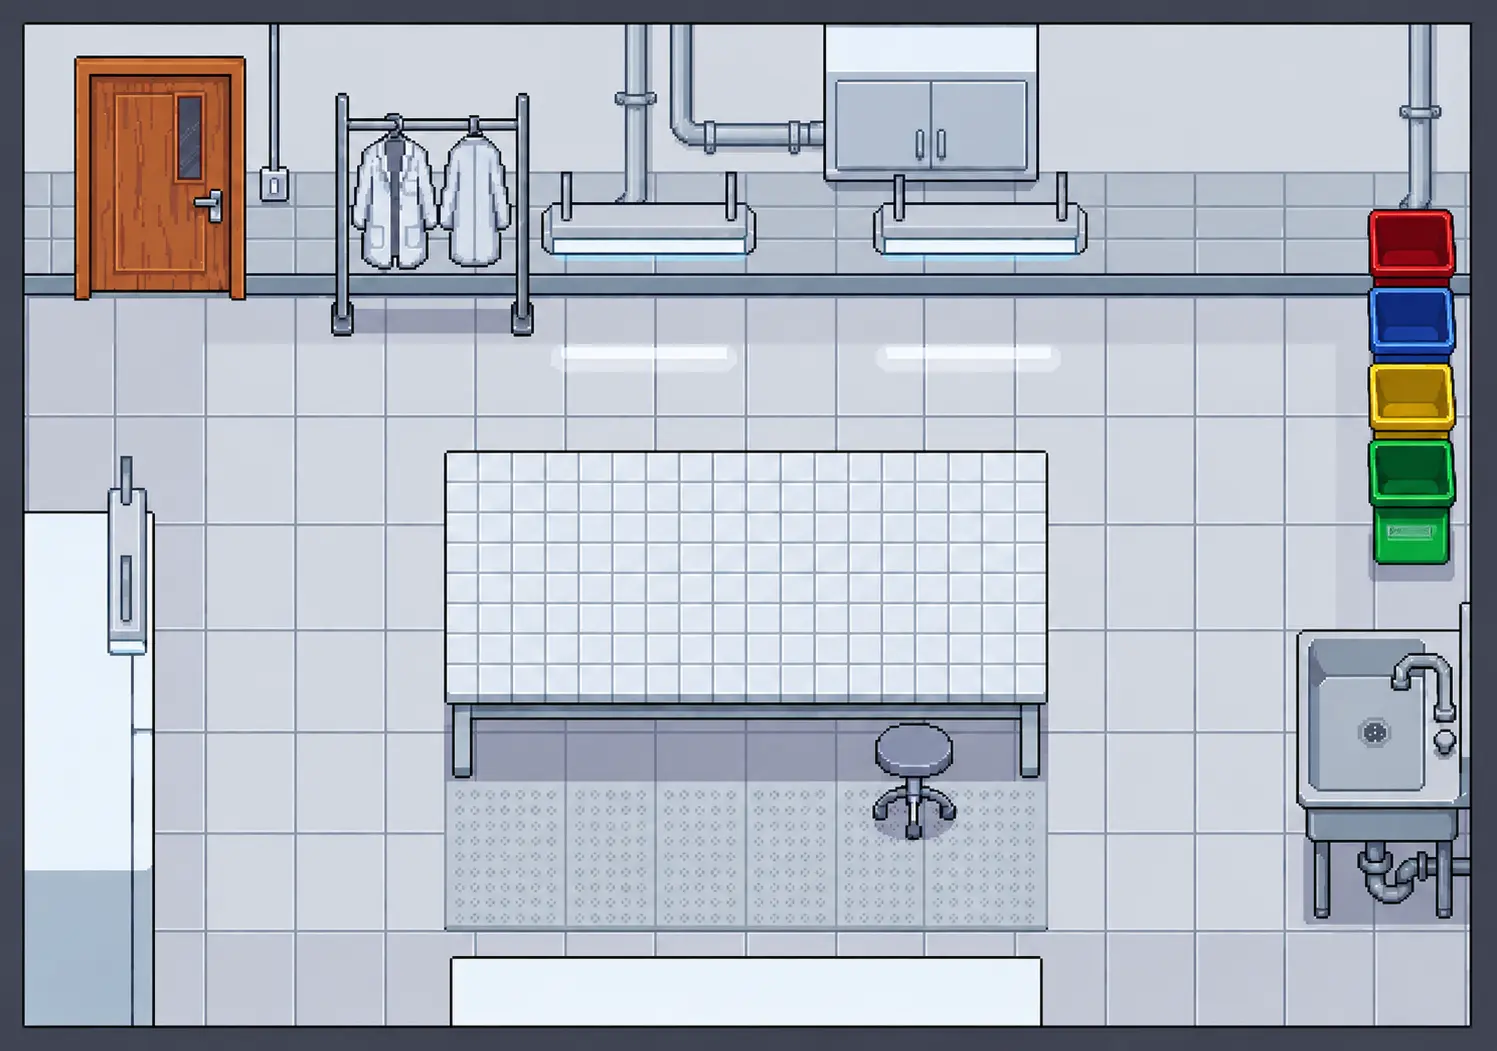
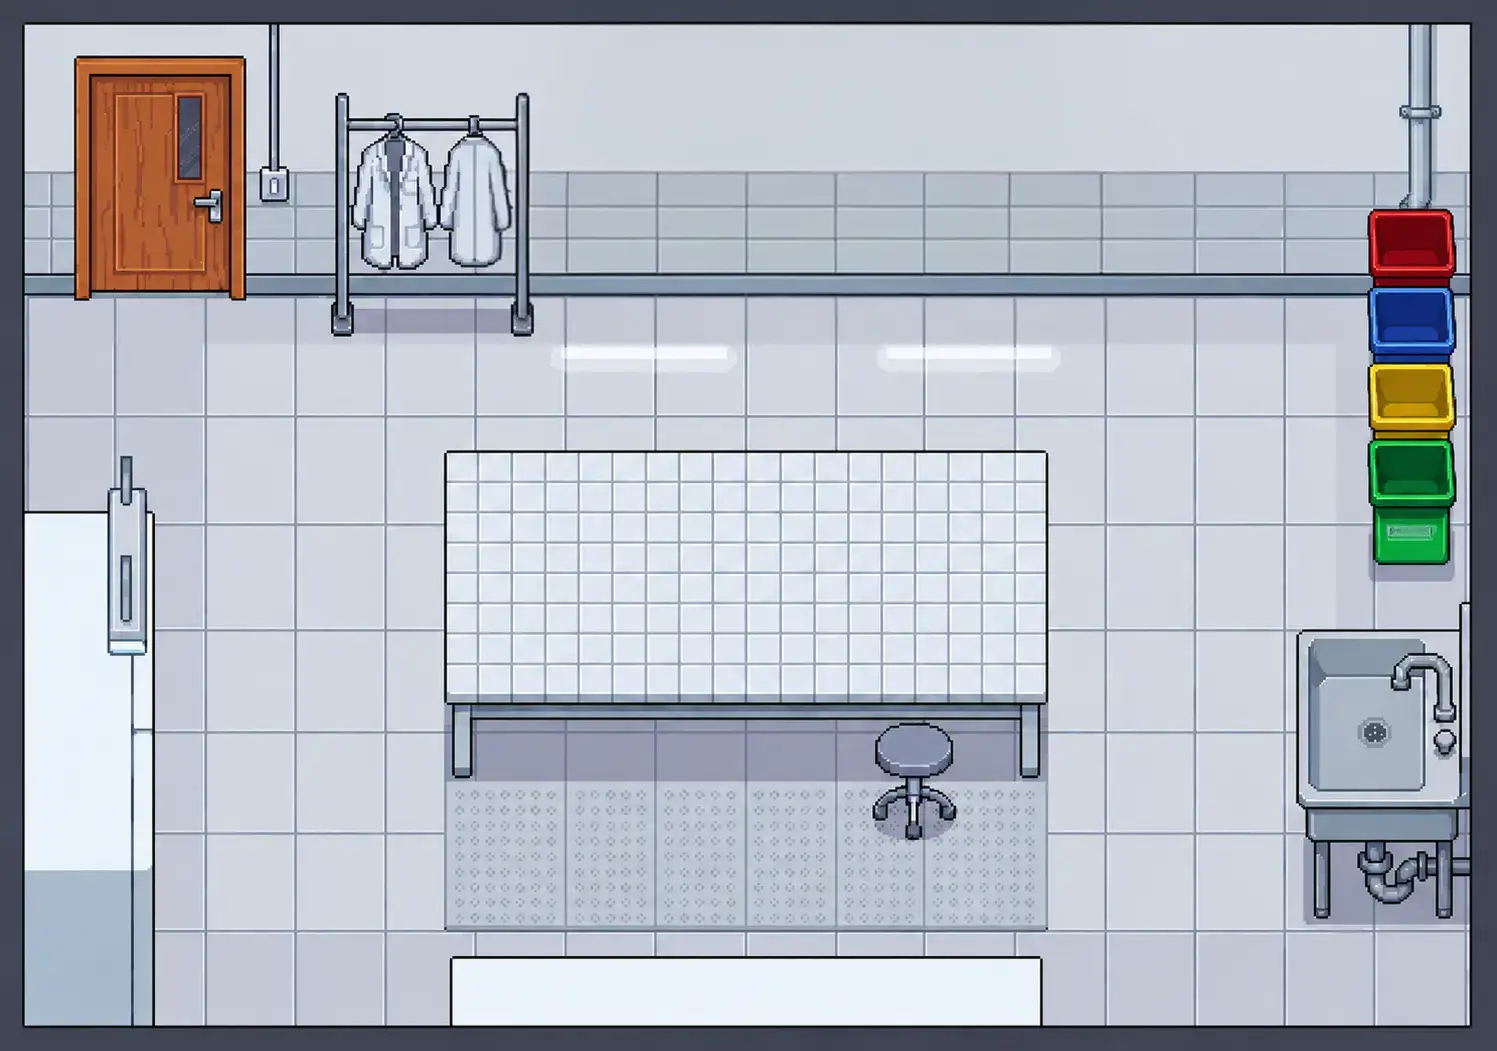
feat: add titration scene placeholder

Changed region(s): [[0.3073, 0.0, 0.7682, 0.3045]]

diff --git a/Alchemist-FE/src/core/game/scenes/workspaceScenes/TitrationScene.ts b/Alchemist-FE/src/core/game/scenes/workspaceScenes/TitrationScene.ts
@@ -1,0 +1,90 @@
+import Phaser from 'phaser';
+
+export default class TitrationScene extends Phaser.Scene {
+  constructor() {
+    super('TitrationScene');
+  }
+  preload(): void {
+    // Layer 1: background
+
+    this.load.image('scene_background', 'images/titrationWorkspace.webp');
+
+    this.load.image('statif', '/images/statif.webp');
+    this.load.image('erlenmayer', '/images/erlenmayer.webp');
+    this.load.image('buret', '/images/buret.webp');
+  }
+
+  create(): void {
+    const width = this.scale.width;
+    const height = this.scale.height;
+
+    // titik tengah layar sebagai acuan utama
+    const centerX = width / 2;
+    const centerY = height / 2;
+
+    // Layer 1: Background
+    this.add.rectangle(0, 0, width, height, 0x000000, 0.8).setOrigin(0, 0);
+    this.add.image(centerX, centerY, 'scene_background');
+
+    // ==========================================
+    // KONFIGURASI SKALA (Ganti angka ini untuk memperkecil/memperbesar)
+    // ==========================================
+    const skalaAlat = 0.48; // Mengurangi ukuran menjadi 50% dari ukuran asli AI
+    const skalaErlenmayer = 0.2;
+
+    // LAYERING 2: Cairan Placeholder (Akan otomatis berada di belakang Erlenmeyer)
+    // Posisinya disesuaikan agar pas di dalam dasar perut erlenmeyer
+    const cairanPlaceholder = this.add.rectangle(
+      centerX + 30,
+      centerY + 340,
+      140 * skalaAlat,
+      180 * skalaAlat,
+      0xffffff,
+      0.6
+    );
+
+    // LAYERING 3: Susunan Alat Kimia
+    // 1. Statif (Digeser agak ke kiri dari buret dan dibalik horizontal agar klem menghadap kanan)
+    const statif = this.add.image(centerX - 10, centerY - 50, 'statif');
+    statif.setScale(skalaAlat);
+    statif.setFlipX(true);
+
+    // 2. Erlenmeyer (Diletakkan di bagian paling bawah meja)
+
+    const buret = this.add.image(centerX - 40, centerY - 188, 'buret');
+    buret.setScale(skalaAlat);
+    buret.setFlipX(true);
+
+    const erlenmeyer = this.add.image(centerX - 40, centerY + 180, 'erlenmayer');
+    erlenmeyer.setScale(skalaErlenmayer);
+    // 3. Buret (Diletakkan menggantung di atas erlenmeyer, menempel pada klem statif)
+
+    // ==========================================
+    // TEKS HUD & INPUT ESCAPE
+    // ==========================================
+    this.add.text(50, 50, 'SIMULASI TITRASI ASAM-BASA', {
+      fontFamily: 'Arial',
+      fontSize: '28px',
+      color: '#ffffff',
+    });
+
+    this.add.text(50, 100, 'Tekan ESC untuk kembali ke Laboratorium Utama', {
+      fontFamily: 'Arial',
+      fontSize: '18px',
+      color: '#aaaaaa',
+    });
+
+    this.setupEscKey();
+  }
+
+  private setupEscKey(): void {
+    const escHandler = (event: KeyboardEvent) => {
+      if (event.key === 'Escape') {
+        window.removeEventListener('keydown', escHandler);
+        this.scene.resume('MainScene'); // Berpindah scene kembali penuh
+        this.scene.stop();
+      }
+    };
+    window.addEventListener('keydown', escHandler);
+  }
+}

diff --git a/Alchemist-FE/src/core/game/scenes/MainScene.ts b/Alchemist-FE/src/core/game/scenes/MainScene.ts
@@ -154,6 +154,16 @@ export default class MainScene extends Phaser.Scene {
 
   private handleTransitionWorkspace(workspaceId: string): void {
     console.log(`Transisi ke WORKSPACE ${workspaceId}`);
+
+    switch (workspaceId) {
+      case 'buret_station':
+        this.scene.pause();
+        this.scene.launch('TitrationScene');
+        break;
+      default:
+        console.warn(`Workspace ID ${workspaceId} belum terintegrasi dengan scene.`);
+        break;
+    }
   }
 
   private handleOpenGlobalOverlay(overlayId: string): void {

diff --git a/Alchemist-FE/src/components/canvas/GameCanvas.tsx b/Alchemist-FE/src/components/canvas/GameCanvas.tsx
@@ -2,6 +2,7 @@
 
 import { useEffect, useRef } from 'react';
 import MainScene from '@/core/game/scenes/MainScene';
+import TitrationScene from '@/core/game/scenes/workspaceScenes/TitrationScene';
 import NotebookScene from '@/core/game/scenes/overlayScenes/NotebookScene';
 import InventoryScene from '@/core/game/scenes/overlayScenes/InventoryScene'; // Impor di sini
 
@@ -29,7 +30,7 @@ export default function GameCanvas() {
             debug: true,
           },
         },
-        scene: [MainScene, NotebookScene, InventoryScene],
+        scene: [MainScene, NotebookScene, InventoryScene, TitrationScene],
       };
 
       if (!gameRef.current && containerRef.current) {